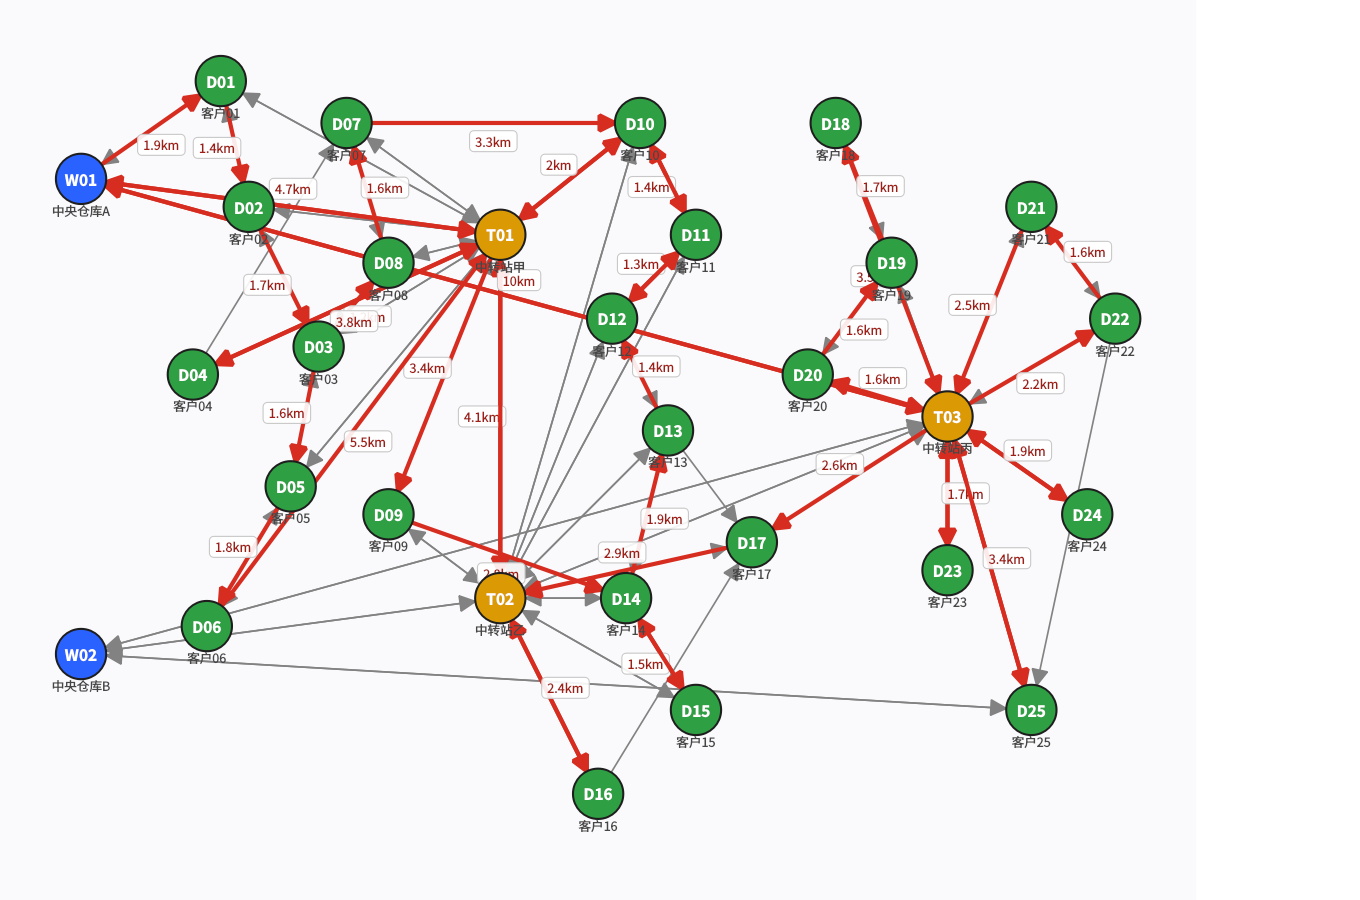
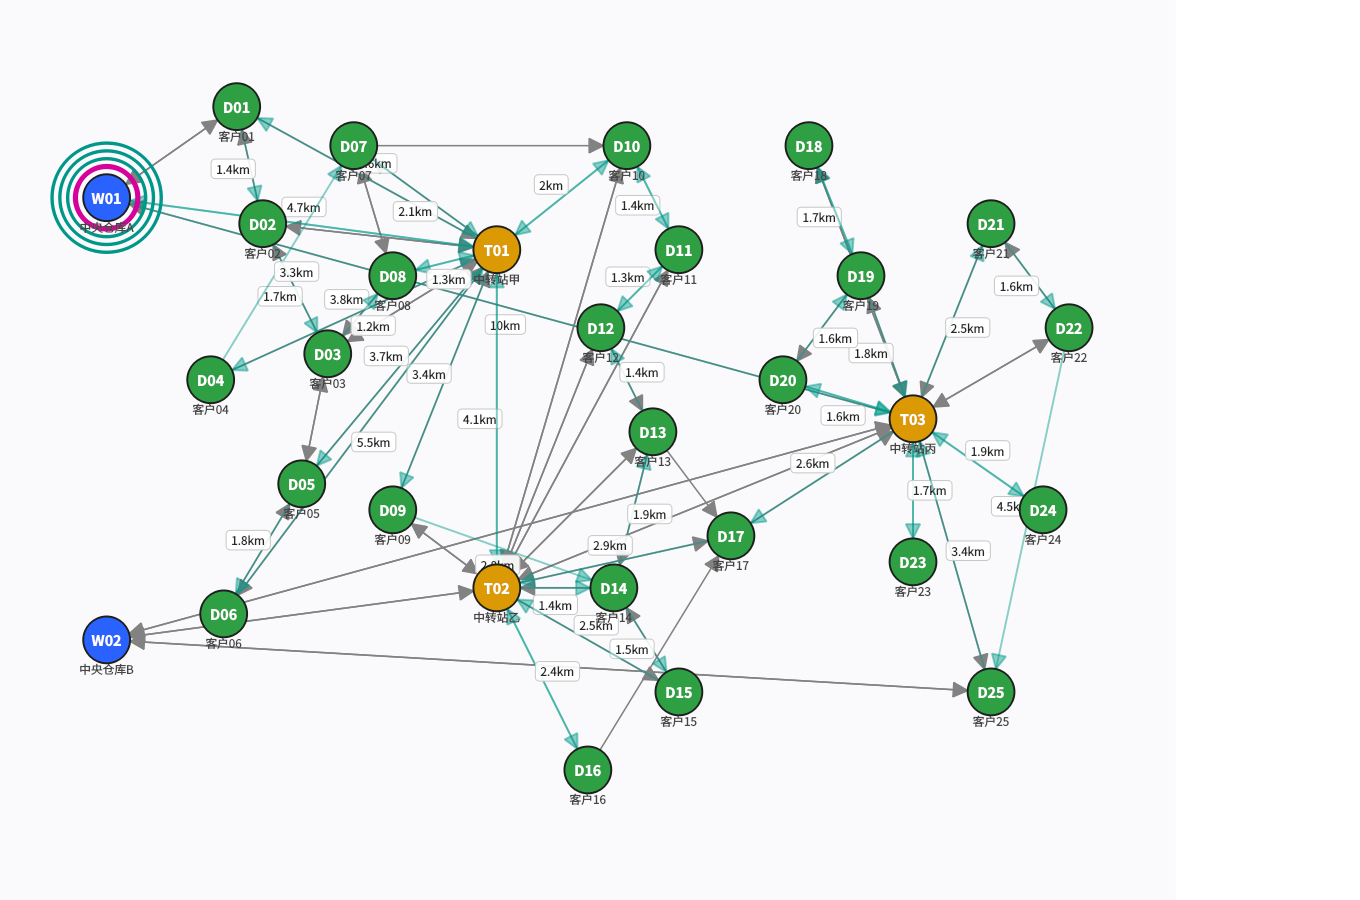
docs: 规格三备料——新增 F7/F8/F9 流程图、更新 U1/U2/U3 依据、重渲染三张截图（#52）
A 新增三张函数流程图（.mmd 为真相源，render.sh 重渲出 PNG，经 read_image 核对）：
- F7 腿与就绪链：跨簇单展开 L1/L2/L3 → readyTime 链 → --dump-plan 的 LEG 行
  依据 buildLegs / stationOfCluster / chooseLegVehicle / readRelayExecution / Leg / LegKind
- F8 三段接力与车等货：applyRelayLayer → L1 慢车 → t1 → L2 快车(W=60) → t2 →
  L3 对簇慢车 → replay 的「车等货」等待 → buildTransitLedger
  依据 applyRelayLayer / buildRelayChain / buildRelayOnwardSpecs / replay /
  relayChainConsistent / buildTransitLedger / kLookaheadWindowMin
- F9 custody 修复与审计：封路/路况打断接力链 → repairCustodyBreaks 用新图重跑
  该单三段接力 → 自洽复核 → 拒绝兜底；另含只读口径 auditCustody
  依据 repairCustodyBreaks / unpairedUnloadOrders / rescheduleFleet::accept /
  auditCustody / CustodyReport / CustodyGap
每张 .mmd 顶部注释逐条列「文件名:符号名」依据，符号均 grep 核实存在。

B 更新既有图依据（不重画结构，只改与源码不符处）：
- U1 补 Leg / LegKind / TransitLeg / CustodyReport / CustodyGap / FleetPlan 及
  buildLegs / applyTransitLayer / rescheduleFleet / auditCustody / fastVehicleFlags 等自由函数
- U2 GraphScene 补 #50 新增接口 setFleetRoutes(…, fastFlags) / setVehicleMarks /
  roleColor / vehicleColor
- U3 启动后 syncScene 改为 setFleetRoutes + setVehicleMarks（角色两色 + 车辆环）

C 重渲染 docs/screenshots/ 三张（#50 已并入 main，基线 fc4f98e）：
gui-network / gui-window / gui-demo，均为 1360x900 无头离屏渲染，经 read_image 核对。

D 同步文档：figures/README.md 补 F7/F8/F9 行、更新 U1/U2/U3 依据与口径；
文档导航.md 的 figures/ 与 screenshots/ 行状态改为 ✅ 当前（2026-11-26）。
不动 src/（纯文档/图）；python3 tools/check_doc_links.py 与 ctest -R doc_links_lint 全绿。

Changed region(s): [[0.0309, 0.0622, 0.8647, 0.9333]]

diff --git a/docs/文档导航.md b/docs/文档导航.md
@@ -26,13 +26,13 @@
 | [`项目结构图.html`](../start-here/read/项目结构图.html) | **模块 / 依赖边界图**（单文件 HTML，浏览器双击即看，**留在用户区**）：`main.cpp` → `io/` → `core/` → `gui/` 主链、事件注入回路、`RoutePlan.stops` 真源与展平视图；节点挂 `src/` 源码标记（本地仓库，链接 local-only） | ✅ 当前（2026-11-18 新增；2026-11-25 #51 复核：图内 14 个 `src/` 路径全部存在、模块链与 `src/` 实际划分一致、chromium 渲染正常；准入 §四8 三查通过——①看模块分层必须读 ②与「数据结构总览.html」分工不重复（结构流通 vs 模块依赖） ③单文件自包含简明——留用户区；事实源为 `src/`，不在用户区另立真相） |
 | [`演示脚本.md`](演示脚本.md) | **验收现场演示脚本**：M1 异构调度（四车口径）/ M2 跨车转运（**默认操作**：插入一张跨簇普通单即见三段接力，无需夹具）/ M3 不可达处置 + 八步现场脚本 + 无头命令 | ✅ 当前（2026-11-25 规格三实测口径；具体数字以现场为准） |
 | [`测试用例表.md`](测试用例表.md) | **报告【测试】章备料**：正确 / 错误 / 边界三类用例表，每条含「用例 → 输入 → 期望结果（标口径）→ 依据（tests/ 用例名或命令实测输出）」；另附**口径表**（17 目标 / 3955 项 / `cli_plan_summary` 773 项 + `cli_demo_transfer` 22 项 / 自检 112 条）、**G1–G31 落点**与 **X1–X7 编号对照表**、**§六 反向验证记录**（S1–S16 历史留档 + **§6.4 R1–R14 全覆盖** + **§6.5 B/C/E 新增守卫** + **§6.6 规格三 A–F 六条**） | ✅ 当前（2026-11-25 规格三 #44 收尾轮；期望值全部来自实测输出，不反推公式） |
-| [`figures/`](figures/README.md) | **报告与 PPT 用的图**：F1–F6 函数流程图 + U1–U4 UML。`.mmd` 是真相源、PNG 是渲染产物，`docs/figures/src/render.sh` **本机可重渲**（经 npx mermaid-cli，chrome-headless-shell 已缓存）；每张图顶部注释列全「文件名:符号名」依据 | ✅ 当前（2026-11-24 规格一同步：F3=pair-insertion、F4=单条连续路线构造、F5=通用插单、F6/U4=顺序不变版重放、U1/U2/U3 同步新字段，8 张已重渲；§五原「设计滞后」4 条已全部消解） |
+| [`figures/`](figures/README.md) | **报告与 PPT 用的图**：F1–F9 函数流程图 + U1–U4 UML。`.mmd` 是真相源、PNG 是渲染产物，`docs/figures/src/render.sh` **本机可重渲**（经 npx mermaid-cli，chrome-headless-shell 已缓存）；每张图顶部注释列全「文件名:符号名」依据 | ✅ 当前（2026-11-26 #52：规格三新增 F7 腿与就绪链 / F8 三段接力与车等货 / F9 custody 修复；U1 补 Leg/LegKind/CustodyReport/CustodyGap/TransitLeg/FleetPlan；U2/U3 按 #50 画布简化补 setFleetRoutes/setVehicleMarks/roleColor；13 张全部已重渲，PNG 经 read_image 核对中文可读、箭头方向对；§五无新增差异） |
 | [`功能实现清单.md`](功能实现清单.md) | 要求逐条核验（基本要求 1/2/3、扩展 1/2、实现提示） | ✅ 当前（2026-11-24 规格一重核：B1.5/B2.3/B2.4/B3.3/E2.1/E2.2/H3/H4/附录验证规模全部换新口径） |
 | [`records/specs/spec1-pickup-delivery-foundation.md`](records/specs/spec1-pickup-delivery-foundation.md) | **规格一 · 全订单取送式基层**（wayfinder 地图 #16 票 #17 成稿）：领域模型 / 数据契约 / 算法 / 事件 / 指标与验收 / 迁移清单 / 验收判据汇总的**汇编与索引**。**已实施**（票 #32–#37 落地，2026-11-24；黄金值已捕获并冻结于 `tests/plan_golden.h`） | ✅ 当前（**实施完成**；偏离台账见设计 §4.7，规格二剩余实施票 #39–#43） |
 | [`records/specs/spec2-heterogeneous-fleet-transit.md`](records/specs/spec2-heterogeneous-fleet-transit.md) | **规格二 · 异构多车调度与中转网络**（wayfinder 地图 #16 票 #26 成稿）：车队模型 / 类型感知分配 / 中转转运网络 / 动态事件复调度 / 验收与演示口径的**汇编与索引**。**已实施**（#39–#43 落地，2026-11-24；102 常量与 9 行摘要已捕获冻结） | ✅ 当前（规格二**实施完成**；演示口径的默认数据转运限制见 [`演示脚本.md`](演示脚本.md) §2.1 与测试用例表 §6.4） |
 | [`课设要求整理.md`](课设要求整理.md) | 老师 4 份原始要求的整理稿 + 评分/时间/纪律口径 | ✅ 当前 |
 | [`中转站策略分析.md`](中转站策略分析.md) | 中转站暂存方案 A/B/C 的量化决策分析（含实测与改动面） | ✅ 当前（2026-09-26 追加决策复核） |
-| [`screenshots/`](screenshots/) | GUI 截图（网络图 / 完整窗口 / 交互后） | ⚠ **已过期，需重渲染**：截图为 2026-09-26，其后「状态栏常驻软件内时间」「顶栏拆成 5 条具名工具栏 + 视图菜单」「车辆信息分两页签」等改动都改了界面 ⇒ 现图里没有状态栏时间、仍是旧的单条工具栏、车辆信息仍是单标签。重渲染：`QT_QPA_PLATFORM=offscreen ./build/app --render-window screenshots/gui-window.png` |
+| [`screenshots/`](screenshots/) | GUI 截图（网络图 / 完整窗口 / 交互后） | ✅ 当前（2026-11-26 #52 重渲染，#50 画布简化已并入 main；三张均为 1360×900 无头离屏渲染：gui-network 是距离策略的图形场景；gui-window 含 4 个车辆页签 V01·400kg / V02·160kg / V03·160kg / V04·160kg、W01 外车辆环、画布只有目标箭头（慢车青 / 快车洋红）、状态栏有软件内时间 08:00；gui-demo 是 --demo 3 封路后的复调度形态）。重渲染命令见 figures/README.md §四与票面 C |
 | [`archive/设计-交接.md`](archive/设计-交接.md) | 工程交接与起步指南 | ⚠ **历史文档**：写于开工前，其中"代码：尚未开始"等表述早已过期，仅作开工期参考 |
 | [`requirements-extracts/`](requirements-extracts/) | **3 份**要求源文件的纯文本提取件（供检索）；`数据结构课程设计-2026.pptx` 未单独提取，其内容已整理进 [`课设要求整理.md`](课设要求整理.md) | ✅ 与原件文本内容一致 |
 | [`docs/archive/`](archive/README.md) | **历史文档归档区**（2026-10-18 建）：原文档**一份内容未改**，只换了位置。当前只含 [`复用调研.md`](archive/复用调研.md) | ✅ 归档 |
@@ -50,7 +50,7 @@
 | # | 待完成项 | 依据 | 影响 | 现有素材 |
 |---|---|---|---|---|
 | 1 | **课程设计报告（本体）** | `docs/课设要求整理.md` §6.1；报告要求原文：「**没有报告不给予检查且无成绩**」 | **最高**：占 30 分，且是参加 40 分验收的**前置条件** | 报告五章所需素材大部分已存在于 `docs/设计.md` / `docs/功能实现清单.md` / `docs/课设要求整理.md`，但**尚未成文** |
-| 2 | 报告【详细设计】的**函数流程图** | 报告要求：「主要函数的流程图」 ← 明文必需 | 高 | ✅ **已成图**：`docs/figures/` **F1–F6**（[F1-minheap.png～F6-traffic-replan.png](figures/README.md)，.mmd 源在 `docs/figures/src/`，`render.sh` 可重渲）。下一步是**被报告正文引用**（图号与图题由报告定） |
+| 2 | 报告【详细设计】的**函数流程图** | 报告要求：「主要函数的流程图」 ← 明文必需 | 高 | ✅ **已成图**：`docs/figures/` **F1–F9**（[F1-minheap.png～F9-custody-repair.png](figures/README.md)，.mmd 源在 `docs/figures/src/`，`render.sh` 可重渲；2026-11-26 #52 新增 F7/F8/F9 规格三图）。下一步是**被报告正文引用**（图号与图题由报告定） |
 | 3 | **UML 图**（类图 / 时序图） | PPT 补充建议（用专业 UML 工具有加分） | 中（加分项） | ✅ **已成图**：`docs/figures/` **U1–U4**（U1 core 类图 / U2 gui+io 类图 / U3 启动时序 / U4 路况重规划时序）。下一步同上——被报告正文或 PPT 引用 |
 | 4 | **测试用例表**（正确 / 错误 / 边界三类）  | 报告要求【测试】：「测试用例须包括：正确运行的用例、导致程序运行的错误用例、边界数据用例」 | 中 | ✅ 已汇总成表：[`测试用例表.md`](测试用例表.md)（2026-11-17），983 项断言已按三类组织成「用例→输入→期望→依据」 |
 | 5 | 报告的**排版**（三级标题字体字号、正文五号宋体首行缩进、封面 9 字段、≤60 页） | `docs/课设要求整理.md` §6.2 | 中 | 无（随报告本体一并产生） |
@@ -101,4 +101,4 @@
 
 ---
 
-*本表随项目更新；最近一次核对：2026-11-25（规格三 #44 收尾轮，四车 + 11 行摘要 + 123 常量）。*
+*本表随项目更新；最近一次核对：2026-11-26（#52 备料轮：F7/F8/F9 流程图新增、U1/U2/U3 依据更新、screenshots 三张重渲染；四车 + 11 行摘要 + 123 常量口径不变）。*

diff --git a/docs/figures/README.md b/docs/figures/README.md
@@ -1,6 +1,6 @@
 # docs/figures —— 报告与 PPT 用的流程图 / UML
 
-课程设计报告要用的全部图：**6 张函数流程图**（报告【详细设计】「主要函数的流程图」明文必需）
+课程设计报告要用的全部图：**9 张函数流程图**（报告【详细设计】「主要函数的流程图」明文必需）
 + **4 张 UML 图**（PPT 补充建议「用专业 UML 工具有加分」）。
 
 > **依据原则**：图的每个节点、字段、调用方向都指向具体的 `文件:符号名`。
@@ -10,7 +10,7 @@
 
 ---
 
-## 一、函数流程图（F1–F6）
+## 一、函数流程图（F1–F9）
 
 | 编号 | 文件 | 图名 | 依据（源码符号名） | 对应报告 |
 |---|---|---|---|---|
@@ -20,14 +20,17 @@
 | F4 | [F4-multitrip.png](F4-multitrip.png) | **单条连续路线构造**：`buildAll` 多起点（EDD / 按 A 聚簇 / 按 B 聚簇）→ 紧急段 FIFO → 普通段 pair-insertion → 两级兜底 → 降载 → 拒绝 | `src/core/RoutePlanner.cpp:buildAll`/`insertionStarts`/`buildWithOrder`/`appendUrgentAll`/`insertNormalAll`/`finalize` | 【详细设计】单条连续路线与载重约束 |
 | F5 | [F5-urgent-insert.png](F5-urgent-insert.png) | **通用插单**：`insertOrder` 按订单自己的 `urgent` 分流——紧急 FIFO 尾插 / 普通 pair-insertion；装不下先降载 | `src/core/RoutePlanner.cpp:insertOrder`/`replan`/`appendUrgentAll`/`insertNormalAll`/`shortestPath`（冲突判定） | 【详细设计】动态订单插入 |
 | F6 | [F6-traffic-replan.png](F6-traffic-replan.png) | 路况 → **顺序不变版重放**的增量重规划 → 不可行退回全量 | `src/gui/MainWindow.cpp:onSimulateTraffic`；`src/core/Traffic.cpp:simulateTrafficChange`/`needsReplan`；`src/core/RoutePlanner.cpp:sliceRemainder`/`replanIncremental`/`replay`/`finalize`/`replan` | 【详细设计】路况与增量重规划 |
+| F7 | [F7-legs-ready-chain.png](F7-legs-ready-chain.png) | **腿与就绪链**（规格三 §1/#45）：跨簇单展开 L1/L2/L3 → `readyTime` 链（L1=发车、L2=L1 完成、L3=L2 完成）→ `--dump-plan` 的 LEG 行；含退化/降级分支 | `src/core/RoutePlanner.cpp:buildLegs`/`stationOfCluster`/`chooseLegVehicle`/`readRelayExecution`；`src/core/RoutePlanner.h:Leg`/`LegKind`；`src/main.cpp` 的 LEG 行 | 【详细设计】腿模型 |
+| F8 | [F8-relay-wait-lookahead.png](F8-relay-wait-lookahead.png) | **三段接力与车等货**（规格三/#48）：`applyRelayLayer` → L1 慢车 → t1 → L2 快车（前瞻窗 W=60）→ t2 → L3 对簇慢车 → `replay` 的「车等货」等待 → 账本与腿结构；含不更差兜底/职责降级 | `src/core/RoutePlanner.cpp:applyRelayLayer`/`buildRelayChain`/`buildRelayOnwardSpecs`/`replay`/`relayChainConsistent`/`buildTransitLedger`；`src/core/RoutePlanner.h:kLookaheadWindowMin` | 【详细设计】三段接力与前瞻窗口 |
+| F9 | [F9-custody-repair.png](F9-custody-repair.png) | **custody 修复与审计**（规格三/#49）：封路/路况打断接力链 → `repairCustodyBreaks` 用新图重跑该单三段接力 → 自洽复核 → 拒绝兜底；另一条是只读口径 `auditCustody`（4 类缺口） | `src/core/RoutePlanner.cpp:repairCustodyBreaks`/`unpairedUnloadOrders`/`rescheduleFleet::accept`/`auditCustody`；`src/core/RoutePlanner.h:CustodyReport`/`CustodyGap` | 【详细设计】custody 守恒 |
 
 ## 二、UML 图（U1–U4）
 
 | 编号 | 文件 | 图名 | 依据 | 对应报告 |
 |---|---|---|---|---|
-| U1 | [U1-core-classes.png](U1-core-classes.png) | core 层类图：领域类型 / 图与堆 / 规划结果 / 路况事件 / 配置随机 / io | 各 `src/core/*.h` 与 `src/io/*.h`（`.mmd` 顶部注释逐条列出文件名:符号名） | 【数据结构设计】+【详细设计】 |
-| U2 | [U2-gui-io-classes.png](U2-gui-io-classes.png) | gui 层 + io 层类图：`MainWindow`/`VehicleState`/`GraphScene`/`NodeItem`/`EdgeItem` + 配置链 | `src/gui/*.h`、`src/io/*.h`、`src/core/Config.h`、`src/core/RoutePlanner.h` | 【数据结构设计】模块结构 |
-| U3 | [U3-seq-startup.png](U3-seq-startup.png) | 时序图：启动 → 加载配置 → 首次规划 → 画布高亮 | `src/main.cpp`、`src/io/ConfigLoader.cpp:ConfigLoader::load`、`src/io/IniFile.cpp:IniFile::loadFromFile`、`src/gui/MainWindow.cpp`（构造 / `replan` / `afterPlanReplaced` / `syncScene`）、`src/gui/GraphScene.cpp:build`/`highlightRoute` | 【详细设计】 |
+| U1 | [U1-core-classes.png](U1-core-classes.png) | core 层类图：领域类型 / 图与堆 / 规划结果 / **腿与转运账本（Leg/LegKind/TransitLeg/FleetPlan）/ custody（CustodyGap/CustodyReport）** / 路况事件 / 配置随机 / io | 各 `src/core/*.h` 与 `src/io/*.h`（`.mmd` 顶部注释逐条列出文件名:符号名；2026-11-26 #52 按规格三补 Leg/LegKind/TransitLeg/CustodyGap/CustodyReport/FleetPlan 与对应自由函数） | 【数据结构设计】+【详细设计】 |
+| U2 | [U2-gui-io-classes.png](U2-gui-io-classes.png) | gui 层 + io 层类图：`MainWindow`/`VehicleState`/`GraphScene`（**#50：`setFleetRoutes(fastFlags)` / `setVehicleMarks` / `roleColor`**）/`NodeItem`/`EdgeItem` + 配置链 | `src/gui/*.h`、`src/io/*.h`、`src/core/Config.h`、`src/core/RoutePlanner.h` | 【数据结构设计】模块结构 |
+| U3 | [U3-seq-startup.png](U3-seq-startup.png) | 时序图：启动 → 加载配置 → 首次规划 → 画布渲染（**#50：`syncScene` 调 `setFleetRoutes` + `setVehicleMarks` 角色两色 + 车辆环**） | `src/main.cpp`、`src/io/ConfigLoader.cpp:ConfigLoader::load`、`src/io/IniFile.cpp:IniFile::loadFromFile`、`src/gui/MainWindow.cpp`（构造 / `replan` / `afterPlanReplaced` / `syncScene` / `canvasTargetRoutes`）、`src/gui/GraphScene.cpp:build`/`setFleetRoutes`/`setVehicleMarks`、`src/core/RoutePlanner.h:fastVehicleFlags` | 【详细设计】 |
 | U4 | [U4-seq-traffic-replan.png](U4-seq-traffic-replan.png) | 时序图：路况触发 → 增量重规划 → 界面刷新 | 同 F6 的符号名 + `src/core/LogisticsGraph.cpp:updateEdgeTime` | 【详细设计】 |
 
 **U1/U2 两条读法（评审常问）**：
@@ -58,7 +61,7 @@
 ## 四、重新渲染
 
 ```bash
-bash docs/figures/src/render.sh          # 全量重渲 10 张 → docs/figures/*.png
+bash docs/figures/src/render.sh          # 全量重渲 13 张 → docs/figures/*.png
 ```
 
 依赖：`npx`（随 Node.js）+ `chrome-headless-shell`。本机首次使用前装一次：
@@ -71,7 +74,7 @@ npx -y puppeteer browsers install chrome-headless-shell
 渲染参数固定为 `-w 1600 -b white`，因此同一份 `.mmd` 在不同机器上应得到同一张 PNG
 （本机实测：重渲 U3 与仓库内 PNG 字节数一致）。
 
-## 五、文档与代码差异（**2026-11-24 重核：原四条已全部消解**）
+## 五、文档与代码差异（**2026-11-26 #52 重核：原四条已全部消解；规格三新图 F7/F8/F9 与 #50 画布形态已对齐源码，无新增差异**）
 
 本节原先列了 4 处「`docs/设计.md` 滞后于源码」的地方。规格一实施（#32–#37）+ 本轮文档同步（#38）后，**四处都已对齐**：
 
@@ -92,7 +95,7 @@ npx -y puppeteer browsers install chrome-headless-shell
 - 图里的数字（30 节点 / 106 有向边 / 25 订单 / **516kg 总需求** / 车 V01 200kg·08:00·1.00·1.00 /
   事件等级派生权重 **27:3:9:1** / 事件刻 15min）均来自 `config/default.ini` 与当前源码，
   属**已提交基线**口径（HEAD `cdc98e2`）。
-- **四个口径不许混**（2026-11-24 实测）：`ctest` **目标数 16**（`ctest -N` 为准）、9 个二进制**自报 2273 项**、`cli_plan_summary` **162 项**、`--self-check-actions` **79 条 OK**。
+- **四个口径不许混**（2026-11-25 实测，规格三 #44 收尾轮，HEAD `a028865` → #50 并入后 `fc4f98e` 行为不变）：`ctest` **目标数 17**（`ctest -N` 为准）、9 个二进制**自报合计 3955 项**、`cli_plan_summary` **773 项** + `cli_demo_transfer` **22 项**、`--self-check-actions` **112 条 OK**。
 - 图不是功能清单：每张图都落在「结构怎么支撑调度决策」上——堆支撑「取最小」、
   前驱数组支撑路径复原、`CostMatrix` 支撑 O(1) leg 查询、`stops` 动作集支撑状态转移与顺序不变版重放、
   `TrafficReport` 支撑「要不要重算」的判定。
